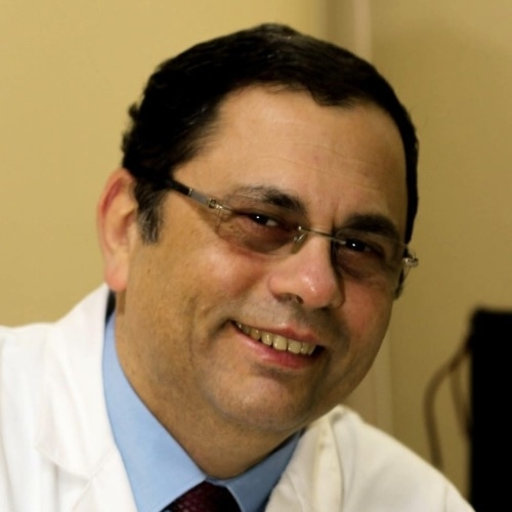
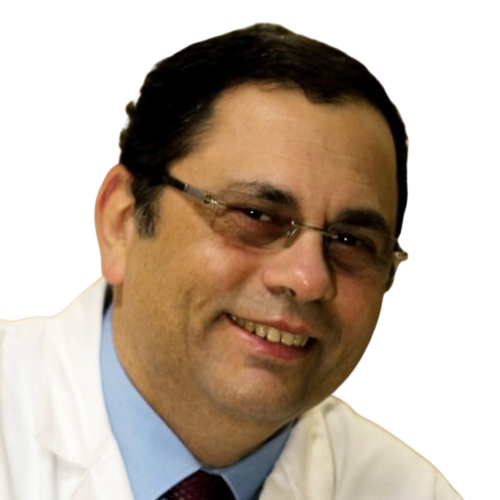
updates

diff --git a/js/AyaMedica.js b/js/AyaMedica.js
@@ -13,6 +13,19 @@ function bookDoctor(doctor) {
     );
 }
 
+function handleYoutubeFrame(ev, link){
+  if(link){
+      const iframeSrc=  link.replace('https://youtu.be', 'https://youtube.com/embed');
+      document.getElementById('youtube-iframe').setAttribute('src', iframeSrc);
+      document.getElementById('Youtube-Frame').style.display= "flex";
+  }else{
+     
+      document.getElementById('youtube-iframe').setAttribute('src', "#");
+
+      document.getElementById('Youtube-Frame').style.display= "none";
+  }
+}
+
 function getDoctorCard_HTML(doctor, id) {
     return `
         <div  class="doctor-card">
@@ -31,8 +44,11 @@ function getDoctorCard_HTML(doctor, id) {
                 </div>
                 <div class="title-box">
                     <span class="title-name">Link: </span>
-                    <span class="title-text"><a class="herf-style"
-                        href=${doctor.link}>${doctor.link}</a>
+                    <span class="title-text">
+                    <a class="herf-style"
+                        href='#'
+                        onclick="handleYoutubeFrame(this, '${doctor.link}')"
+                        >${doctor.link}</a>
                     </span>
                 </div>
                 <div class="title-box">
@@ -41,8 +57,8 @@ function getDoctorCard_HTML(doctor, id) {
                 </div>
                 <div class="title-box">
                     <span class="title-name">Description: </span>
-                    <span class="title-text">${doctor.description.split("\n")[0]
-        }</span>
+                    <span class="title-text">${doctor.description.slice(0,150)}...</span>
+        </span>
                 </div>
             </div>
             <div class="book-box" >
@@ -239,7 +255,8 @@ function setCalender(monthIndex, firstIndex, lastIndex, country) {
 
             }
             // console.log( parseInt(sessionStorage.getItem('total_Price')),  parseInt(JSON.parse(sessionStorage.getItem('location_package')).foreign_OverDay), totalDays );
-            document.getElementById('days-selected').innerHTML = `You are select ${(totalDays)} days`
+            document.getElementById('days-selected').innerHTML = `You booked ${(totalDays)} nights, ${totalDays + 1} days.`
+            document.getElementById('days-selected').style.display = 'block'
             const total_Price= parseInt(sessionStorage.getItem('total_Price')) + (parseInt(JSON.parse(sessionStorage.getItem('location_package')).foreign_OverDay)* (totalDays - 3));
             document.querySelector('.total-price #price-text').innerText= `$${total_Price}`;
             // showDate_Span.innerHTML = `<i style= "color: grey;">From:</i> ${sessionStorage.getItem('Calendar_FromDay')}/${months_numbers[sessionStorage.getItem('Calendar_FromMonth')]}/2022 <i style= "color: grey;">To:</i> ${sessionStorage.getItem('Calendar_ToDay')}/${months_numbers[sessionStorage.getItem('Calendar_ToMonth')]}/2022`;
@@ -344,8 +361,8 @@ if (document.title === "Events") {
     var Doctors_Data = [
         //Doctor Assem
         {
-            imgPath: "images/drassem.jpg",
-            name: "Assem Zahran",
+          imgPath: "images/drassem.png",
+          name: "Assem Zahran",
             clinicName: "International Femto Lasik Centre - Zahran Eye Center",
             link: "https://youtu.be/T0qQ21D2_fg",
             location: "New Cairo - Damiette",
@@ -385,8 +402,8 @@ if (document.title === "Events") {
         },
         //Doctor Magdy
         {
-            imgPath: "images/drmagdy.jpg",
-            name: "Magdy Khalaf",
+          imgPath: "images/drmagdy.png",
+          name: "Magdy Khalaf",
             clinicName: "I-Vision",
             link: "https://youtu.be/gHczffuexMg",
             location: "Heliopolis, Cairo",
@@ -605,8 +622,7 @@ if (document.title === "Events") {
         };
     
         document.getElementById('ToBookedDays').onkeyup= (e)=>{
-           
-            
+           if(e.target.value){
             sessionStorage.setItem("Calendar_ToDay", e.target.value);
             sessionStorage.setItem("Shifted_To_DEC", false);
             //Detect Dec/Nov From Day Number
@@ -654,6 +670,14 @@ if (document.title === "Events") {
                 }
             }
 
+           }
+           else{
+            document.getElementById('days-selected').style.display = 'none';
+            document.querySelector('.priceDiv').style.display = 'none';
+            document.querySelector('.goBook-btn').setAttribute('disabled', true)
+           }
+            
+           
          
         };
     }//End onchange

diff --git a/css/website-cc24f1-b2b6aa74a6-ddb9ff4d6b0dd.webflow.css b/css/website-cc24f1-b2b6aa74a6-ddb9ff4d6b0dd.webflow.css
@@ -50,7 +50,6 @@ p {
   -webkit-justify-content: flex-start;
   -ms-flex-pack: start;
   justify-content: flex-start;
-  background-color: #fff;
 }
 
 .section.hero {
@@ -1516,7 +1515,7 @@ p {
   max-width: 50%;
   margin-right: 40px;
   margin-bottom: 20px;
-  color: #14a29d;
+  color: #73a2cc;
 }
 
 .hero-div.after.right {
@@ -1865,7 +1864,7 @@ p {
 .progress-bar {
   width: 100%;
   height: 100%;
-  background-color: #14a29d;
+  background-color: #183a59;
 }
 
 .heading-wrap.my-20 {
@@ -4705,8 +4704,8 @@ p {
   }
   .doctor-card{
     width: 95%;
+    height: auto;
     margin: 10px;
-    /* padding: 200px; */
     flex-direction: row;
     align-items: center;
     border-radius: 10px;
@@ -6035,6 +6034,7 @@ p {
   }
   .doctor-card{
     width: 90%;
+    height: auto;
     margin: 10px;
     /* padding: 200px; */
     flex-direction: row;
@@ -7962,9 +7962,11 @@ p {
 .Doctors-wrapper{
   display: flex;
   flex-direction: row;
-  justify-content: flex-start;
+  justify-content: center;
   align-items: flex-start;
   flex-wrap: wrap;
+  margin: auto;
+
 }
 
 .package-title{
@@ -7983,12 +7985,19 @@ p {
   box-shadow: 0 0 5px #183a59;
 }
 .doctor-img{
-  position: relative;
-  /* display: block; */
-  width: 30vh;
-  height: 30vh;
+  /* position: relative;
+  top:-110px; */
+  width: 200px;
+  height: 200px;
+  /* width: 30vh; */
+  /* height: 30vh; */
+  background-color: #EEEEEE;
+  border-radius: 50%;
+  box-shadow: 0 0 5px #183a59;
+  /* padding-top: 10px; */
+  padding: 5px;
   margin: auto;
-  padding: 0px;
+
   clear: right;
   -webkit-align-self: center;
   -ms-flex-item-align: center;
@@ -8003,6 +8012,14 @@ p {
   text-align: center;
   -o-object-fit: contain;
   object-fit: contain;
+}
+
+.docImgDiv{
+  display: flex;
+  justify-content: center;
+  align-items: center;
+  flex-direction: row;
+  padding: 10px
 }
 .title-box{
   padding: 5px;
@@ -8026,17 +8043,14 @@ p {
   justify-content: center;
   align-items: center;
   text-align: center;
-  margin-top: 30px;
-  margin-bottom: 20px;
-  margin-top: 20px;
+ 
 }
 .book-box:hover{
   cursor: pointer;
 }
-.doctor-details{
+/* .doctor-details{
   height: 45vh;
-  /* overflow: scroll; */
-}
+} */
 
 
 /*Payment Page*/
@@ -8432,4 +8446,53 @@ p {
 .drop-down-codes{
   padding: 4px;
   width: 10rem;
+}
+
+#days-selected{
+  color: #2374bb;
+  font-size: 1rem;
+  font-weight: 600;
+}
+
+
+/* Events Page */
+#Youtube-Frame{
+  position: fixed;
+  top: 0;
+  left: 0;
+  right: 0;
+  height: 100vh;
+  width: 100%;
+  background-color: rgba(0, 0, 0, 0.7);
+  z-index: 9999;
+  display: flex;
+  flex-direction: column;
+  justify-content: flex-start;
+  align-items: flex-start;
+  display: none;
+  padding: 10px;
+  
+}
+#Youtube-Frame .closingIcon{
+  position: relative;
+  top: 2%;
+  left: 2%;
+  color: #fff;
+  font-size: 25px;
+  cursor: pointer;
+  background-color: #d11a2a;
+  border-radius: 10px;
+  padding: 10px 15px;
+}
+
+#Youtube-Frame .closingIcon:hover{
+  opacity: 0.7;
+}
+
+#Youtube-Frame iframe{
+  margin: auto;
+  width: 100%;
+  max-width: 560px;
+  height: 100%;
+  max-height: 315px;
 }

diff --git a/events.html b/events.html
@@ -88,11 +88,27 @@
       }
     }
   </style>
+
+
   <meta name="google-site-verification" content="MW4cdq19zMBLdYbKlaYKUPVomVI6p2uPdN35P7X3EiI">
 </head>
 
 <body>
+  
+  
+  
   <div class="page-wrapper">
+    <div id="Youtube-Frame">
+      <div class="closingIcon" onclick="handleYoutubeFrame(this)">x</div>
+      <iframe 
+      id="youtube-iframe"
+      src="https://www.youtube.com/embed/D1S-oRz9Mho" 
+      title="YouTube video player" 
+      allowscriptaccess="always"
+      frameborder="0" 
+      allow="accelerometer; autoplay; clipboard-write; encrypted-media; gyroscope; picture-in-picture" 
+      allowfullscreen></iframe>
+    </div>
     <div class="primary-navigation">
       <div data-collapse="tiny" data-animation="default" data-duration="400" data-easing="ease" data-easing2="ease"
         role="banner" class="primary-navbar w-nav">
@@ -313,7 +329,9 @@
     </div>
   </div>
 
+  
   <script src="./js/AyaMedica.js" type="text/javascript"></script>
+  
   <script src="https://d3e54v103j8qbb.cloudfront.net/js/jquery-3.5.1.min.dc5e7f18c8.js?site=606f297a6f67432330945311"
     type="text/javascript" integrity="sha256-9/aliU8dGd2tb6OSsuzixeV4y/faTqgFtohetphbbj0="
     crossorigin="anonymous"></script>

diff --git a/css/media.css b/css/media.css
@@ -114,7 +114,7 @@
     .Doctors-wrapper{
       display: flex;
       flex-direction: row;
-      justify-content: flex-start;
+      justify-content: center;
       align-items: flex-start;
     }
     .doctor-card{
@@ -217,7 +217,7 @@
     .Doctors-wrapper{
       display: flex;
       flex-direction: row;
-      justify-content: flex-start;
+      justify-content: center;
       align-items: flex-start;
     }
     

diff --git a/payment.html b/payment.html
@@ -250,7 +250,7 @@
               <button type="button" class="Dec-Nov-Btn">December</button>
             </div>
             <div style="padding: 10px;">
-              <i> At Least 2 Days Between Comming And Leaving Day</i>
+              <i> You have to book at least 3 nights.</i>
             </div>
         </div>
           <div class="cal-div">
